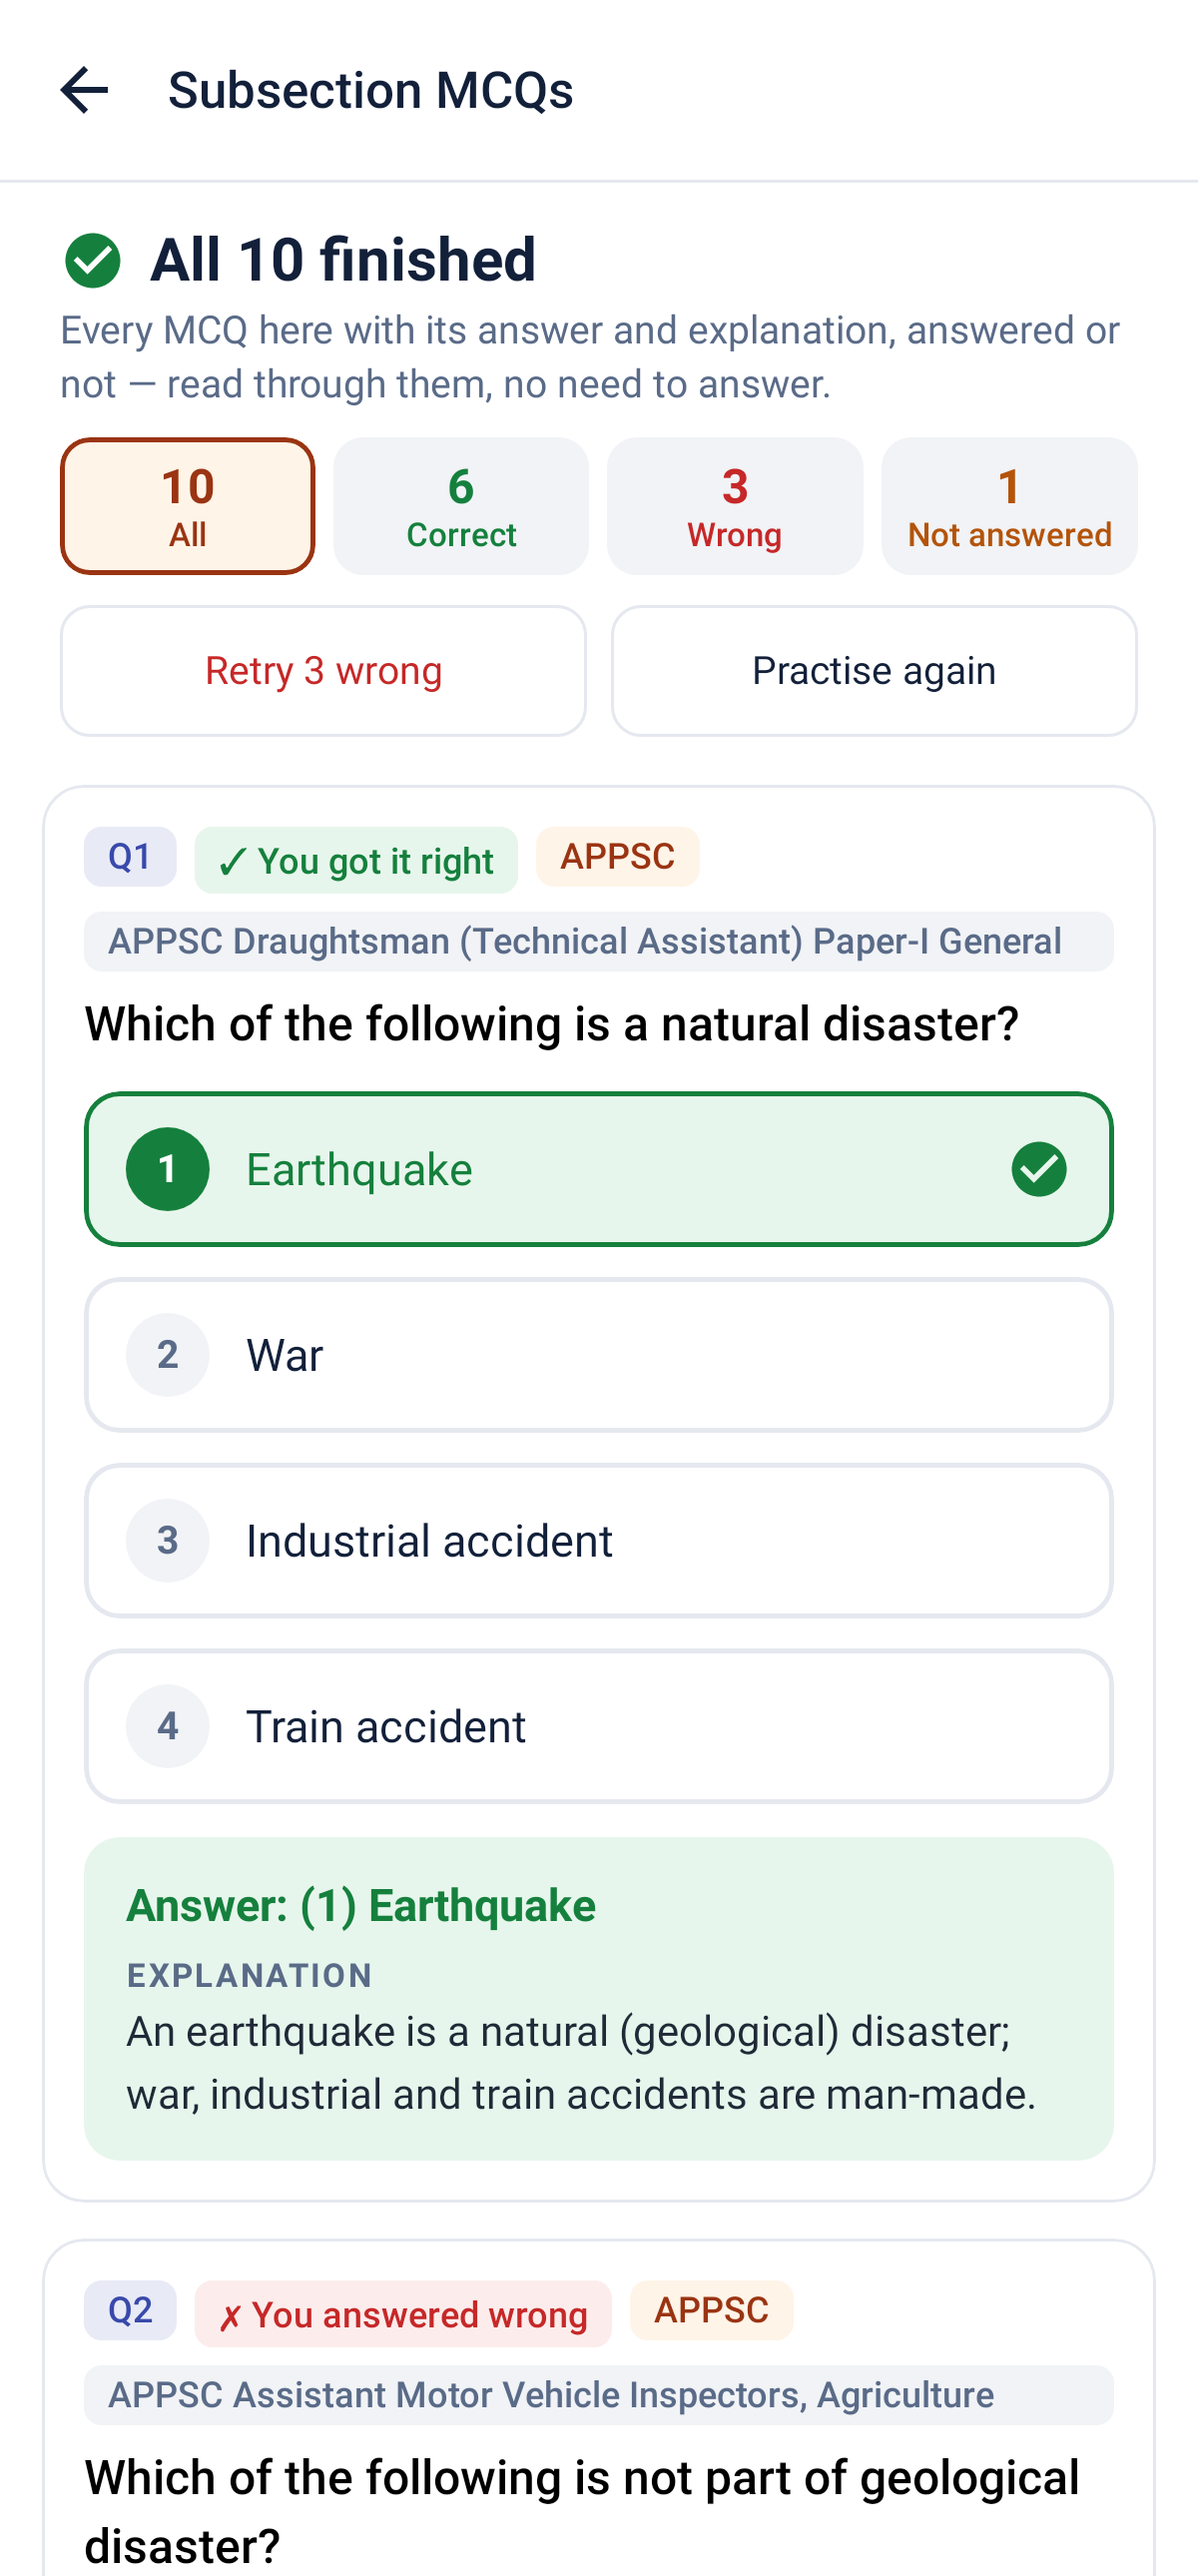
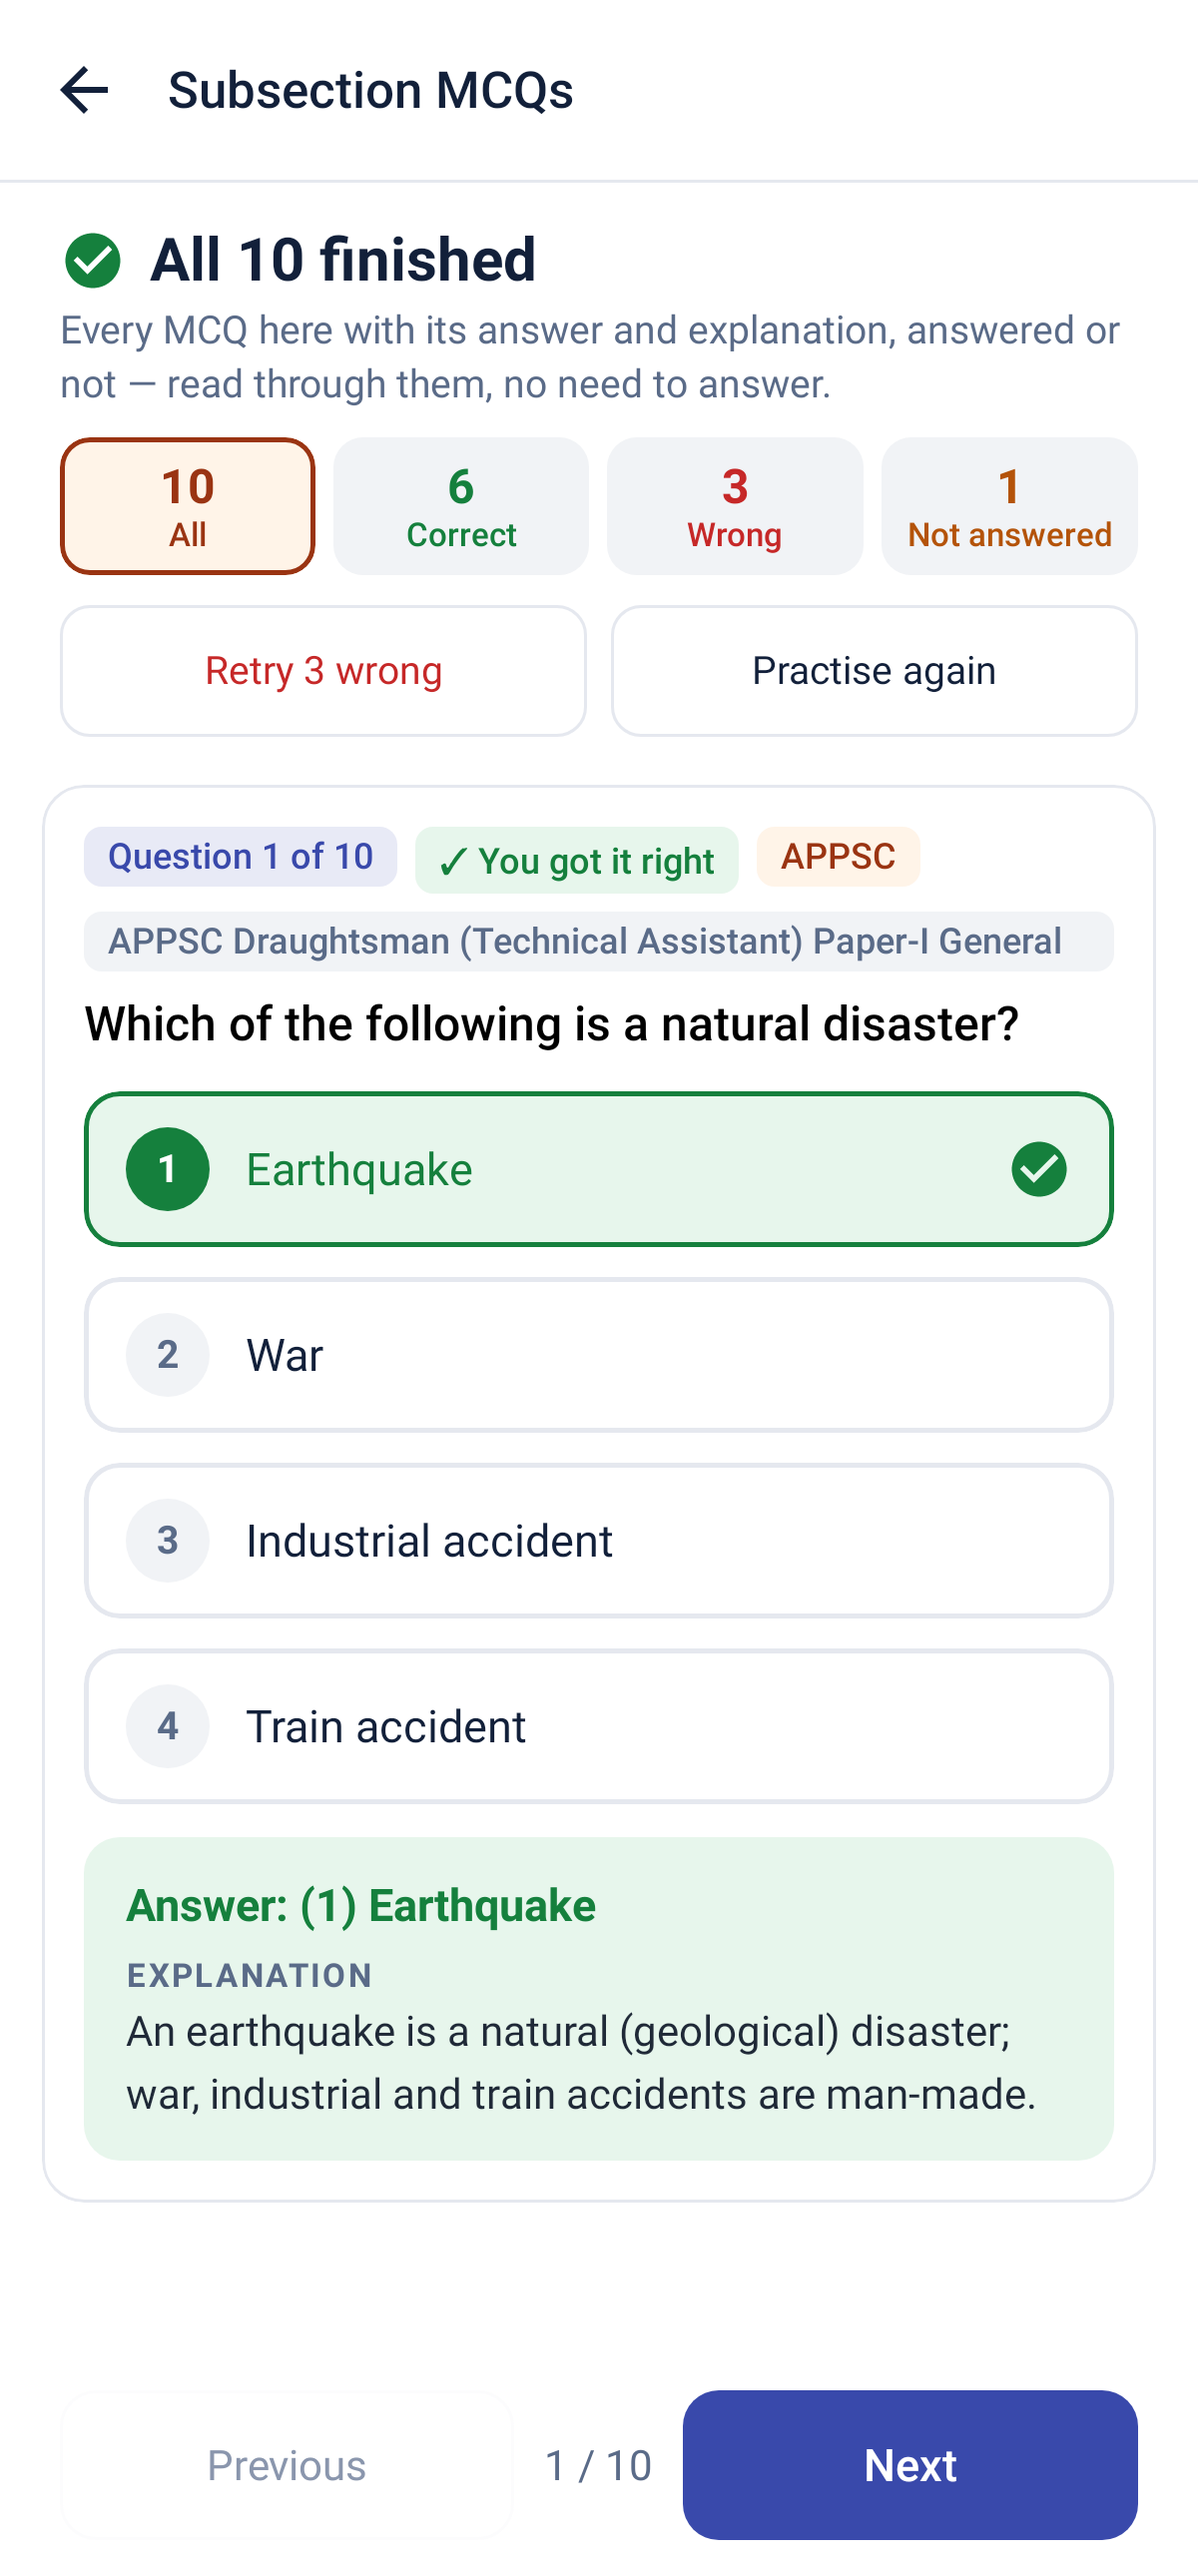
Review: one MCQ at a time with Previous / Next (filters kept); 3.67
Claude-Session: https://claude.ai/code/session_01PKGGFub7rwSfsErjs44tnL

Changed region(s): [[0.0617, 0.8682, 0.9558, 1.0], [0.1233, 0.3101, 0.5858, 0.3411], [0.6475, 0.3101, 0.74, 0.3411]]

diff --git a/app/src/main/java/com/appsc/prep/ui/screens/QuizScreen.kt b/app/src/main/java/com/appsc/prep/ui/screens/QuizScreen.kt
@@ -45,6 +45,7 @@ import androidx.compose.material3.OutlinedButton
 import androidx.compose.material3.Text
 import androidx.compose.runtime.Composable
 import androidx.compose.runtime.LaunchedEffect
+import kotlinx.coroutines.launch
 import androidx.compose.runtime.getValue
 import androidx.compose.runtime.mutableIntStateOf
 import androidx.compose.runtime.mutableStateListOf
@@ -840,7 +841,17 @@ private fun ReviewList(
         "seen" -> set.filter { it.id !in store.answers }
         else -> set
     }
-    PageList(Modifier.fillMaxSize(), max = 900.dp) {
+    // one MCQ at a time, like the quiz: Previous / Next at the bottom
+    var pos by rememberSaveable(filter) { mutableStateOf(0) }
+    val at = pos.coerceIn(0, (shownSet.size - 1).coerceAtLeast(0))
+    val listState = androidx.compose.foundation.lazy.rememberLazyListState()
+    val scope = androidx.compose.runtime.rememberCoroutineScope()
+    fun go(to: Int) {
+        pos = to
+        scope.launch { listState.scrollToItem(1) }
+    }
+    Column(Modifier.fillMaxSize()) {
+    PageList(Modifier.weight(1f), state = listState, max = 900.dp) {
         item(key = "review-head") {
             Column(Modifier.padding(start = 20.dp, end = 20.dp, top = 14.dp, bottom = 4.dp)) {
                 Row(verticalAlignment = Alignment.CenterVertically) {
@@ -907,7 +918,8 @@ private fun ReviewList(
                 Spacer(Modifier.height(6.dp))
             }
         }
-        shownSet.forEachIndexed { i, q ->
+        shownSet.getOrNull(at)?.let { q ->
+            val i = at
             item(key = "rv-${q.id}") {
                 val result = store.answers[q.id]
                 Column(
@@ -916,7 +928,7 @@ private fun ReviewList(
                         .background(Color.White).padding(14.dp),
                 ) {
                     FlowRow(horizontalArrangement = Arrangement.spacedBy(6.dp), verticalArrangement = Arrangement.spacedBy(6.dp)) {
-                        Tag("Q${i + 1}", C.AccentSoft, C.Accent)
+                        Tag("Question ${i + 1} of ${shownSet.size}", C.AccentSoft, C.Accent)
                         when (result) {
                             true -> Tag("✓ You got it right", C.GreenSoft, C.Green)
                             false -> Tag("✗ You answered wrong", C.HighSoft, C.High)
@@ -961,6 +973,29 @@ private fun ReviewList(
             }
         }
         item { Spacer(Modifier.height(24.dp)) }
+    }
+    if (shownSet.isNotEmpty()) {
+        Row(
+            Modifier.fillMaxWidth().padding(horizontal = 20.dp, vertical = 12.dp),
+            horizontalArrangement = Arrangement.spacedBy(10.dp),
+            verticalAlignment = Alignment.CenterVertically,
+        ) {
+            OutlinedButton(
+                onClick = { go(at - 1) },
+                enabled = at > 0,
+                modifier = Modifier.weight(1f).height(50.dp),
+                shape = RoundedCornerShape(12.dp),
+            ) { Text("Previous", color = if (at > 0) C.Ink else C.Faint, maxLines = 1, style = TextStyle(fontSize = 14.sp)) }
+            Text("${at + 1} / ${shownSet.size}", style = TextStyle(fontSize = 14.sp, color = C.Muted))
+            Button(
+                onClick = { go(at + 1) },
+                enabled = at < shownSet.size - 1,
+                modifier = Modifier.weight(1f).height(50.dp),
+                shape = RoundedCornerShape(12.dp),
+                colors = ButtonDefaults.buttonColors(containerColor = C.Accent),
+            ) { Text("Next", style = TextStyle(fontSize = 15.sp, fontWeight = FontWeight.SemiBold)) }
+        }
+    }
     }
 }
 

diff --git a/app/src/testComplete/java/com/appsc/prep/ReviewShotsTest.kt b/app/src/testComplete/java/com/appsc/prep/ReviewShotsTest.kt
@@ -88,9 +88,14 @@ class ReviewShotsTest {
         show(app()) { QuizScreen(QuizSource("sub", 4, 10, 3), "review", "Subsection MCQs", nav) }
         rule.onNodeWithText("All 10 finished", substring = true).assertExists()
         rule.onRoot().captureRoboImage("screenshots/review/3_review_top.png")
-        rule.onNode(hasScrollAction()).performScrollToNode(hasText("You answered wrong", substring = true))
+        // one MCQ at a time: Next moves on (Question 2 of 10)
+        rule.onNodeWithText("Question 1 of 10", substring = true).assertExists()
+        rule.onNodeWithText("Next").performClick()
         rule.waitForIdle()
+        rule.onNodeWithText("Question 2 of 10", substring = true).assertExists()
         rule.onRoot().captureRoboImage("screenshots/review/4_review_wrong_one.png")
+        rule.onNodeWithText("Previous").performClick()
+        rule.waitForIdle()
         rule.onNode(hasScrollAction()).performScrollToNode(hasText("All 10 finished", substring = true))
         rule.waitForIdle()
         rule.onNodeWithText("Wrong").performClick()
@@ -104,8 +109,9 @@ class ReviewShotsTest {
         val all = runBlocking { app.repo.mcq(4) }.subQuestions(10, 0)
         show(app) { QuizScreen(QuizSource("sub", 4, 10, 0), "review", "Subsection MCQs", nav) }
         rule.onNodeWithText("Review all ${all.size} · 12 finished", substring = true).assertExists()
-        rule.onNode(hasScrollAction()).performScrollToNode(hasText("Not attempted", substring = true))
+        rule.onNodeWithText("Not answered").performClick()
         rule.waitForIdle()
+        rule.onNodeWithText("Not attempted", substring = true).assertExists()
         rule.onRoot().captureRoboImage("screenshots/review/8_review_not_attempted.png")
     }
 
